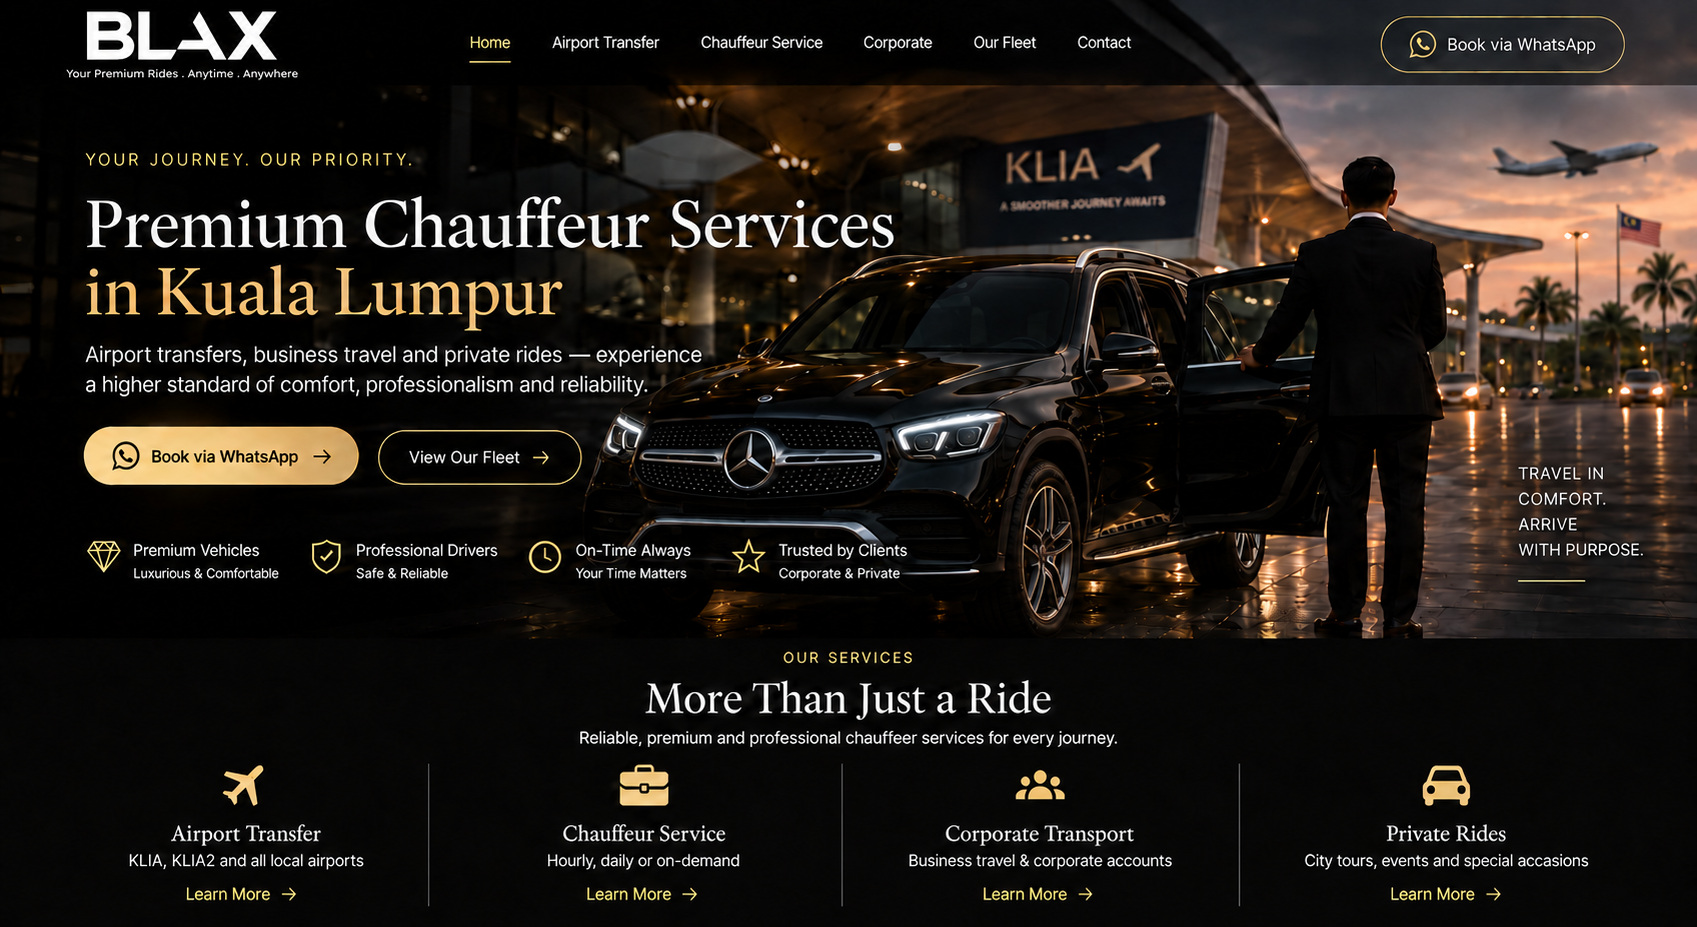
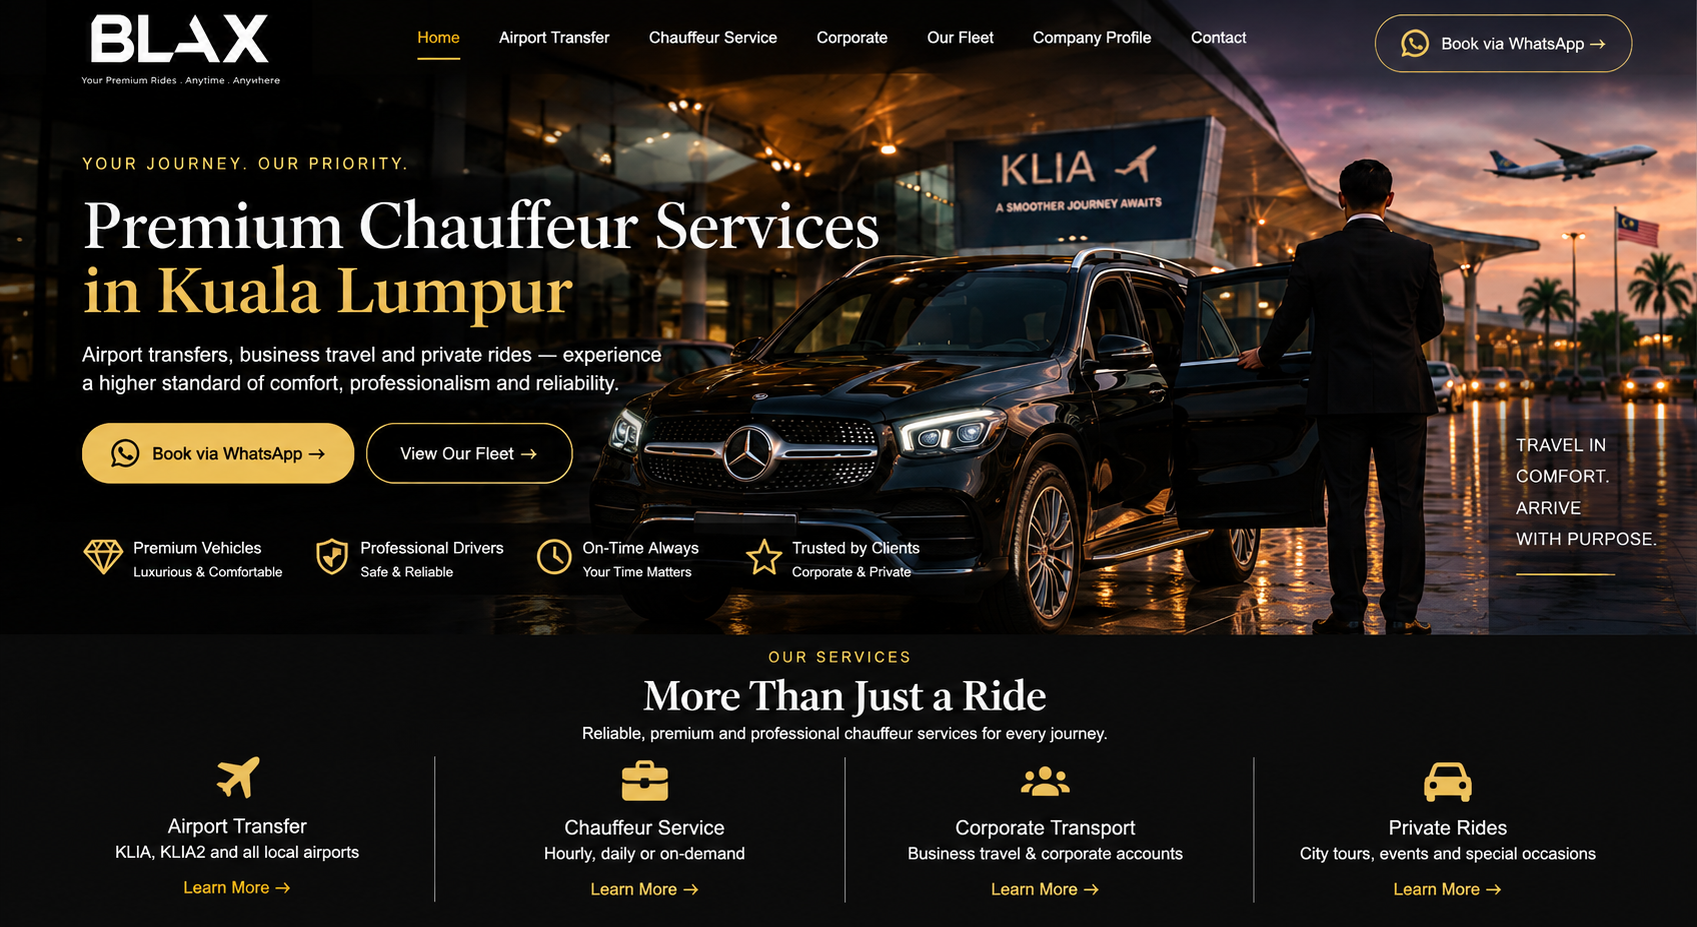
BLAX Unified Premium Final Design

diff --git a/styles.css b/styles.css
@@ -1,226 +1,53 @@
-*{box-sizing:border-box}body{margin:0;background:#10100f;color:#f7f3eb;font-family:Arial,Helvetica,sans-serif;line-height:1.6}html{scroll-behavior:smooth}a{color:inherit}a:focus-visible{outline:3px solid #f1ca89;outline-offset:3px}.skip{position:absolute;top:-100px;left:12px;z-index:30;background:#fff;color:#111;padding:8px}.skip:focus{top:10px}.site-header{background:#080808;border-bottom:1px solid #40382b;position:relative;z-index:5}.header-inner{max-width:1540px;margin:auto;padding:12px 30px;display:flex;gap:25px;align-items:center;justify-content:space-between}.brand{display:block;flex:0 0 auto}.brand img{display:block;width:176px;height:74px;object-fit:cover;object-position:center 52%}.main-nav{display:flex;gap:clamp(8px,1.3vw,25px);align-items:center;flex-wrap:wrap;justify-content:center}.main-nav a{text-decoration:none;font-size:13px;white-space:nowrap;color:#e6e1d8;padding:7px 0}.main-nav a:hover,.main-nav a[aria-current=page]{color:#e6bd7a;border-bottom:1px solid #e6bd7a}.header-cta{border:1px solid #c9a66e;color:#f1d2a0;padding:9px 15px;border-radius:25px;text-decoration:none;white-space:nowrap;font-size:13px}.header-cta:hover,.art-action:hover,.button:hover{filter:brightness(1.15)}.page-home .site-header{position:absolute;top:0;left:0;width:100%;background:#080808ee}.art-stage{position:relative;width:100%;background:#0c0b0a}.art-stage>img{display:block;width:100%;height:auto;max-width:none}.desktop-actions{position:absolute;inset:0;pointer-events:none}.art-action{position:absolute;pointer-events:auto;display:inline-flex;align-items:center;justify-content:center;gap:.7em;text-decoration:none;font-weight:600;white-space:nowrap;line-height:1.2;font-size:clamp(12px,1.15vw,20px);padding:.7em 1.25em;border-radius:100px;border:1px solid #e8bf7e;color:#e8bf7e;background:#13110f;box-shadow:0 0 0 2px #15110f}.art-action.primary{background:#f0c981;color:#1b1610;border-color:#f0c981}.art-action.secondary{background:#121110;color:#f0d29e}.art-action.service{background:#121110;color:#e8bd7a;box-shadow:none;border:0;padding:.25em .5em;font-size:clamp(10px,.95vw,17px)}.home-wa{left:4.8%;top:46.3%}.home-fleet{left:22.6%;top:46.3%}.service-airport{left:10.3%;top:93.9%}.service-chauffeur{left:34.4%;top:93.9%}.service-corporate{left:59.3%;top:93.9%}.service-private{left:84.1%;top:93.9%}.airport-wa{left:4%;top:71.5%}.chauffeur-wa{left:4%;top:84%}.chauffeur-fleet{left:20.3%;top:84%}.corporate-more{left:4%;top:70.2%}.company-more{left:3.5%;top:68.2%}.contact-wa{left:4%;top:58.8%}.mobile-actions{display:none}.wrap{max-width:1320px;margin:auto;padding-left:30px;padding-right:30px}.section{padding-top:78px;padding-bottom:85px;border-bottom:1px solid #352e23}.eyebrow{letter-spacing:.27em;color:#e5bd7f;font-size:13px;font-weight:700}.section h2{font-family:Georgia,'Times New Roman',serif;font-size:clamp(34px,3.7vw,58px);font-weight:400;line-height:1.1;margin:14px 0 20px}.lead{max-width:900px;color:#d0cbc3;font-size:18px}.section .button{margin-top:24px}.button{display:inline-flex;gap:12px;border:1px solid #e8bf7e;border-radius:30px;background:#e8bf7e;color:#1a140e;text-decoration:none;padding:12px 22px;font-weight:700}.cards{display:grid;grid-template-columns:repeat(4,minmax(0,1fr));gap:18px;margin-top:40px}.card{background:#1d1b18;border:1px solid #43392b;padding:24px;min-height:170px}.card h3{font-family:Georgia,serif;font-size:22px;line-height:1.2;font-weight:400;color:#f0cc96;margin:0 0 16px}.card p{color:#d0cbc3;margin:0}.site-footer{background:#080808;padding:40px 0;color:#bbb4a8}.footer-inner{display:flex;justify-content:space-between;gap:30px;align-items:center}.site-footer img{width:140px;height:59px;object-fit:cover;object-position:center 52%;display:block}.site-footer p{margin:8px 0;max-width:460px}.site-footer a{color:#e5bd7f}@media(max-width:1100px){.header-inner{flex-wrap:wrap;justify-content:center}.main-nav{order:3;width:100%}.cards{grid-template-columns:repeat(2,1fr)}}@media(max-width:700px){.header-inner{gap:10px;padding:12px 16px}.brand img{width:145px;height:62px}.header-cta{font-size:12px}.main-nav{justify-content:flex-start;flex-wrap:nowrap;overflow-x:auto;padding:5px 2px 10px;gap:18px}.main-nav a{font-size:13px}.page-home .site-header{position:relative}.art-stage{width:100%}.art-stage>img{width:100%;height:auto}.desktop-actions{display:none}.mobile-actions{display:flex;flex-wrap:wrap;gap:12px;padding:17px 22px 25px;background:#141210}.mobile-actions .art-action{position:static;min-height:44px;font-size:14px;padding:11px 18px}.wrap{padding-left:22px;padding-right:22px}.section{padding-top:54px;padding-bottom:60px}.cards{grid-template-columns:1fr;gap:12px}.card{min-height:0}.footer-inner{display:block}}
 
-.mobile-service-links{display:none}@media(max-width:700px){.mobile-service-links{display:grid;grid-template-columns:repeat(2,minmax(0,1fr));gap:10px;padding:0 22px 24px}.mobile-service-links a{color:#f0ce93;background:#1d1b18;border:1px solid #4c3d2a;padding:12px;text-decoration:none;font-size:13px;min-height:44px}}
+*{box-sizing:border-box}
+html{scroll-behavior:smooth}
+body{margin:0;background:#0b0b0a;color:#f7f3eb;font-family:Arial,Helvetica,sans-serif;line-height:1.6;overflow-x:hidden}
+a{color:inherit}
+.skip{position:absolute;left:-9999px}
+.site-header{position:relative;z-index:20;background:#080808;border:0}
+.header-inner{max-width:1600px;margin:auto;min-height:82px;padding:8px 28px;display:flex;align-items:center;justify-content:space-between;gap:24px}
+.brand{display:block;flex:0 0 auto}
+.brand img{display:block;width:176px;height:64px;object-fit:cover;object-position:center 52%;background:#080808}
+.main-nav{display:flex;align-items:center;justify-content:center;gap:clamp(12px,1.5vw,28px);flex:1}
+.main-nav a{text-decoration:none;white-space:nowrap;color:#eee9df;font-size:14px;padding:8px 0}
+.main-nav a:hover,.main-nav a[aria-current=page]{color:#e9c174;border-bottom:2px solid #d9ad58}
+.header-cta{border:1px solid #d4ac64;border-radius:28px;padding:10px 18px;text-decoration:none;color:#f0d39f;white-space:nowrap;font-size:14px}
 
-/* The approved artwork already draws the buttons. These real links make those exact visual buttons interactive without drawing a second button. */
-.desktop-actions{display:block;pointer-events:none}
-.desktop-actions .art-action{display:block;position:absolute;z-index:2;pointer-events:auto;cursor:pointer;overflow:hidden;text-indent:-9999px;white-space:nowrap;font-size:0;padding:0;border:0;border-radius:0;background:transparent;color:transparent;box-shadow:none;filter:none}
-.desktop-actions .art-action:hover{filter:none}.desktop-actions .art-action span{display:none}
+/* Hero artwork: no overlay, no line, no light/dark header gradient */
+.art-stage{position:relative;width:100%;background:#080808;overflow:hidden}
+.art-stage>img{display:block;width:100%;height:auto;max-width:none}
+.desktop-actions{position:absolute;inset:0;pointer-events:none}
+.desktop-actions .art-action{position:absolute;display:block;z-index:2;pointer-events:auto;text-indent:-9999px;font-size:0;padding:0;border:0;background:transparent;color:transparent;box-shadow:none}
 .home-wa{left:4.2%;top:45.8%;width:18%;height:8.5%}.home-fleet{left:22%;top:45.8%;width:15%;height:8.5%}
 .service-airport{left:9%;top:92%;width:13%;height:7%}.service-chauffeur{left:33%;top:92%;width:13%;height:7%}.service-corporate{left:58%;top:92%;width:13%;height:7%}.service-private{left:82%;top:92%;width:13%;height:7%}
-.airport-wa{left:2.5%;top:69%;width:21%;height:11%}
-.chauffeur-wa{left:2.5%;top:82%;width:18%;height:11%}.chauffeur-fleet{left:20%;top:82%;width:17%;height:11%}
-.corporate-more{left:2.5%;top:68%;width:30%;height:11%}
-.company-more{left:2.5%;top:66%;width:22%;height:11%}
-.contact-wa{left:2.5%;top:56%;width:23%;height:11%}
-.mobile-actions,.mobile-service-links{display:none!important}
-@media(max-width:700px){.desktop-actions{display:block}.desktop-actions .art-action{min-height:44px}.page-home .art-stage:before{content:'';position:absolute;top:0;left:0;right:0;height:9.5%;z-index:1;background:#080808;pointer-events:none}}
+.airport-wa{left:2.5%;top:69%;width:21%;height:11%}.chauffeur-wa{left:2.5%;top:82%;width:18%;height:11%}.chauffeur-fleet{left:20%;top:82%;width:17%;height:11%}
+.corporate-more{left:2.5%;top:68%;width:30%;height:11%}.company-more{left:2.5%;top:66%;width:22%;height:11%}.contact-wa{left:2.5%;top:56%;width:23%;height:11%}
+.mobile-actions,.mobile-service-links{display:none}
 
+/* Content below hero */
+.wrap{max-width:1320px;margin:auto;padding-left:30px;padding-right:30px}
+.section{padding:72px 0 80px;border-bottom:1px solid #30291f}
+.eyebrow{letter-spacing:.25em;color:#e5bd7f;font-size:13px;font-weight:700}
+.section h2{font-family:Georgia,'Times New Roman',serif;font-size:clamp(34px,3.7vw,58px);font-weight:400;line-height:1.1;margin:14px 0 20px}
+.lead{max-width:900px;color:#d0cbc3;font-size:18px}
+.cards{display:grid;grid-template-columns:repeat(4,minmax(0,1fr));gap:18px;margin-top:38px}
+.card{background:#181714;border:1px solid #403629;padding:24px;min-height:165px}
+.card h3{font-family:Georgia,serif;font-size:22px;line-height:1.2;font-weight:400;color:#f0cc96;margin:0 0 14px}.card p{color:#d0cbc3;margin:0}
 
-/* =========================================================
-   BLAX FINAL RESPONSIVE HEADER + MOBILE SYSTEM
-   23 Sep 2026
-   ========================================================= */
-
-/* DESKTOP: header visually merges into hero instead of looking attached */
-@media (min-width:701px){
-  .site-header{
-    position:absolute;
-    top:0;left:0;width:100%;
-    z-index:20;
-    background:linear-gradient(to bottom,rgba(5,5,5,.96),rgba(5,5,5,.78),rgba(5,5,5,.20));
-    border-bottom:1px solid rgba(201,166,110,.28);
-  }
-  .header-inner{min-height:82px}
-  .brand img{
-    width:176px;height:64px;
-    object-fit:cover;
-    object-position:center 52%;
-    background:#050505;
-  }
-
-  /* Every hero begins behind the transparent header */
-  .art-stage{position:relative}
-
-  /* HOME artwork itself contains an old header. Crop that embedded strip. */
-  .page-home .art-home{
-    overflow:hidden;
-    aspect-ratio:1600/802;
-  }
-  .page-home .art-home>img{
-    width:100%;
-    height:auto;
-    transform:translateY(-8.9%);
-    transform-origin:top center;
-  }
-
-  /* Keep invisible desktop click targets aligned after home crop */
-  .page-home .art-home .desktop-actions{
-    top:-8.9%;
-    bottom:auto;
-    height:108.9%;
-  }
+/* Phone: clean header + horizontal nav + full hero + large touch actions */
+@media(max-width:700px){
+ .header-inner{min-height:0;padding:10px 14px 8px;display:grid;grid-template-columns:1fr auto;gap:8px 10px}
+ .brand img{width:124px;height:50px}.header-cta{font-size:11px;padding:8px 10px}
+ .main-nav{grid-column:1/-1;width:calc(100% + 28px);margin-left:-14px;padding:4px 14px 9px;justify-content:flex-start;gap:19px;overflow-x:auto;scrollbar-width:none}
+ .main-nav::-webkit-scrollbar{display:none}.main-nav a{flex:0 0 auto;font-size:12px}
+ .art-stage>img{width:100%;height:auto}
+ .desktop-actions{display:none}
+ .mobile-actions{display:flex;flex-direction:column;gap:10px;padding:14px 16px 18px;background:#0d0c0b}
+ .mobile-actions .art-action{position:static;display:flex;align-items:center;justify-content:center;width:100%;min-height:48px;padding:12px 16px;border-radius:28px;text-decoration:none;font-size:14px;font-weight:700;border:1px solid #e8bf7e;color:#f0d29e;background:#121110}
+ .mobile-actions .art-action.primary{background:#f0c981;color:#1b1610}
+ .mobile-service-links{display:grid;grid-template-columns:1fr 1fr;gap:10px;padding:0 16px 20px;background:#0d0c0b}
+ .mobile-service-links a{display:flex;align-items:center;min-height:50px;padding:11px;color:#f0ce93;background:#191714;border:1px solid #493b2a;text-decoration:none;font-size:13px}
+ .wrap{padding-left:18px;padding-right:18px}.section{padding:42px 0 48px}.eyebrow{font-size:11px}.section h2{font-size:clamp(29px,9vw,42px)}.lead{font-size:16px}
+ .cards{grid-template-columns:1fr;gap:12px;margin-top:28px}.card{min-height:0;padding:20px}
 }
-
-/* MOBILE / PHONE */
-@media (max-width:700px){
-  html,body{width:100%;max-width:100%;overflow-x:hidden}
-
-  .site-header,.page-home .site-header{
-    position:relative;
-    top:auto;left:auto;
-    width:100%;
-    background:#070707;
-    border-bottom:1px solid #3c3226;
-  }
-
-  .header-inner{
-    width:100%;
-    padding:10px 14px 8px;
-    display:grid;
-    grid-template-columns:minmax(0,1fr) auto;
-    gap:8px 12px;
-    align-items:center;
-  }
-
-  .brand{min-width:0}
-  .brand img{
-    width:126px;height:52px;
-    object-fit:cover;
-    object-position:center 52%;
-    background:#070707;
-  }
-
-  .header-cta{
-    justify-self:end;
-    font-size:11px;
-    padding:8px 11px;
-    border-radius:24px;
-  }
-
-  .main-nav{
-    grid-column:1/-1;
-    order:initial;
-    width:calc(100% + 28px);
-    margin-left:-14px;
-    padding:4px 14px 9px;
-    display:flex;
-    flex-wrap:nowrap;
-    justify-content:flex-start;
-    gap:19px;
-    overflow-x:auto;
-    overflow-y:hidden;
-    -webkit-overflow-scrolling:touch;
-    scrollbar-width:none;
-  }
-  .main-nav::-webkit-scrollbar{display:none}
-  .main-nav a{
-    flex:0 0 auto;
-    font-size:12px;
-    padding:6px 0;
-  }
-
-  .art-stage{
-    width:100%;
-    overflow:hidden;
-    background:#080808;
-  }
-  .art-stage>img{
-    display:block;
-    width:100%;
-    height:auto;
-    max-width:100%;
-  }
-
-  /* Remove the old embedded navigation from Home on phones too */
-  .page-home .art-home{
-    aspect-ratio:1600/802;
-    overflow:hidden;
-  }
-  .page-home .art-home>img{
-    width:100%;
-    height:auto;
-    transform:translateY(-8.9%);
-    transform-origin:top center;
-  }
-  .page-home .art-stage:before{
-    content:none!important;
-    display:none!important;
-  }
-
-  /* Artwork buttons are too small on phones: use real touch buttons below */
-  .desktop-actions{display:none!important}
-  .mobile-actions{
-    display:flex!important;
-    flex-direction:column;
-    flex-wrap:nowrap;
-    gap:10px;
-    padding:15px 16px 18px;
-    background:#0d0c0b;
-    border-top:1px solid #342a20;
-  }
-  .mobile-actions .art-action{
-    position:static!important;
-    display:flex!important;
-    width:100%;
-    min-height:48px;
-    padding:12px 16px;
-    border-radius:28px;
-    font-size:14px!important;
-    text-indent:0!important;
-    white-space:normal;
-    text-align:center;
-    color:#f0d29e!important;
-    background:#121110!important;
-    border:1px solid #e8bf7e!important;
-    box-shadow:none!important;
-  }
-  .mobile-actions .art-action.primary{
-    background:#f0c981!important;
-    color:#1b1610!important;
-    border-color:#f0c981!important;
-  }
-  .mobile-actions .art-action span{display:inline!important}
-
-  .mobile-service-links{
-    display:grid!important;
-    grid-template-columns:1fr 1fr;
-    gap:10px;
-    padding:0 16px 20px;
-    background:#0d0c0b;
-  }
-  .mobile-service-links a{
-    display:flex;
-    align-items:center;
-    min-height:52px;
-    padding:12px;
-    color:#f0ce93;
-    background:#1d1b18;
-    border:1px solid #4c3d2a;
-    text-decoration:none;
-    font-size:13px;
-    line-height:1.35;
-  }
-
-  .wrap{width:100%;padding-left:18px;padding-right:18px}
-  .section{padding-top:42px;padding-bottom:48px}
-  .eyebrow{font-size:11px;letter-spacing:.20em}
-  .section h2{
-    font-size:clamp(29px,9vw,42px);
-    line-height:1.08;
-    margin:10px 0 16px;
-    overflow-wrap:anywhere;
-  }
-  .lead{font-size:16px;line-height:1.65}
-  .cards{grid-template-columns:1fr;gap:12px;margin-top:28px}
-  .card{min-height:0;padding:20px}
-  .card h3{font-size:20px;margin-bottom:10px}
-  .footer-inner{display:block}
-}
-
-@media(max-width:390px){
-  .header-inner{grid-template-columns:1fr}
-  .brand,.header-cta{justify-self:center}
-  .main-nav{grid-column:1}
-  .mobile-service-links{grid-template-columns:1fr}
-}
+@media(max-width:390px){.header-inner{grid-template-columns:1fr}.brand,.header-cta{justify-self:center}.main-nav{grid-column:1}.mobile-service-links{grid-template-columns:1fr}}
